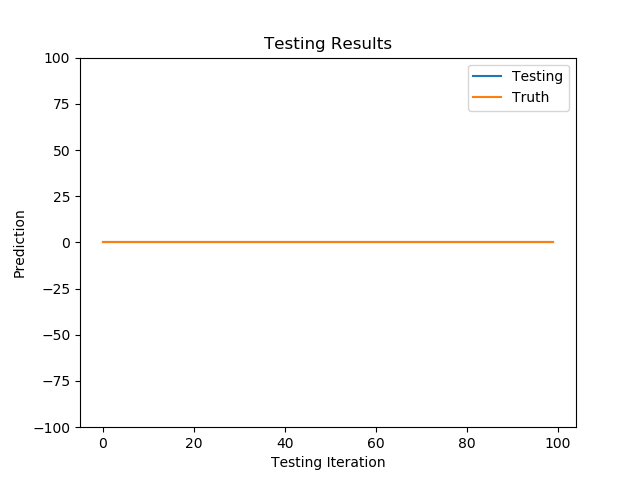
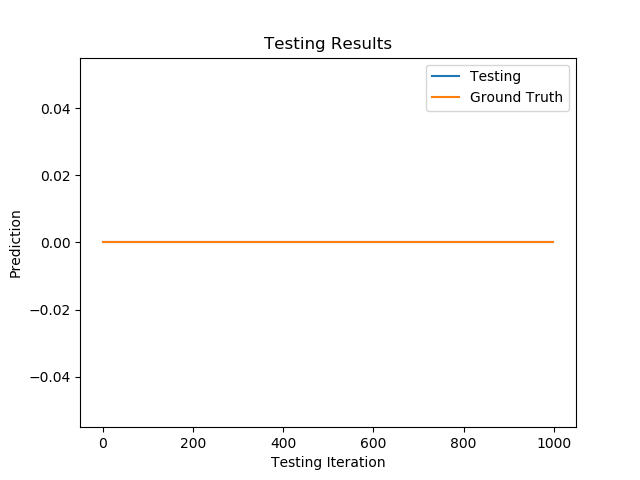
Fixes for test 1

diff --git a/seq2point_test.py b/seq2point_test.py
@@ -6,54 +6,55 @@ from model_structure import create_model, load_model
 from data_feeder import TestingChunkSlider
 import matplotlib.pyplot as plt
 
-# Split the test dataset into features and targets.
-def load_dataset(file_name, crop):
-    data_frame = pd.read_csv(file_name, nrows=crop, header=0)
-    test_input = np.round(np.array(data_frame.iloc[:, 0], float), 6)
-    test_target = np.round(np.array(data_frame.iloc[:, 1], float), 6)
-    del data_frame
-    return test_input, test_target
+def test_model():
 
-# Identify the test file.
-for file_name in os.listdir("./kettle/"):
-    if ("TEST" in file_name):
-        test_file_name = file_name
-    else:
-        print("No testing file was found.")
-        break
+    # Split the test dataset into features and targets.
+    def load_dataset(file_name, crop):
+        data_frame = pd.read_csv(file_name, nrows=crop, header=0)
+        test_input = np.round(np.array(data_frame.iloc[:, 0], float), 6)
+        test_target = np.round(np.array(data_frame.iloc[:, 1], float), 6)
+        del data_frame
+        return test_input, test_target
 
-offset = int(0.5 * 599 - 1)
+    # Identify the test file.
+    # for file_name in os.listdir("./kettle/"):
+    #     print("file name: ", file_name)
+    #     if ("test" in file_name):
+    #         test_file_name = file_name
+    #     else:
+    #         print("No testing file was found.")
+    #         break
 
-# Get the (cropped) testing dataset.
-CROP = None
-test_input, test_target = load_dataset(test_file_name, CROP)
+    test_file_name = "./kettle/kettle_test_.csv"
 
-# Initialise the model and testing generator.
-model = create_model()
-<<<<<<< HEAD
-test_generator = TestingChunkSlider(number_of_windows=100, offset=offset)
-=======
+    offset = int(0.5 * 599 - 1)
 
-test_generator = TestingChunkSlider(number_of_windows=1000, offset=offset)
->>>>>>> 7e15f265340991a6697e4964b7415c99bde496a3
+    # Get the (cropped) testing dataset.
+    CROP = None
+    DEFAULT_BATCH_SIZE = 1000
+    test_input, test_target = load_dataset(test_file_name, CROP)
 
-# Test the model.
-testing_history = model.predict_generator(test_generator.load_data(test_input), steps=1)
+    # Initialise the model and testing generator.
+    model = create_model()
+    model = load_model(model, "./kettle/saved_model/kettle_model")
+    test_generator = TestingChunkSlider(number_of_windows=100, inputs=test_input, offset=offset)
 
-# Can't have negative energy readings - set any results below 0 to 0.
-test_target[test_target < 0] = 0
-testing_history[testing_history < 0] = 0
+    # Calculate the optimum steps per epoch.
+    steps_per_test_epoch = np.round(int(test_generator.total_size / DEFAULT_BATCH_SIZE), decimals=0)
 
-# Plot testing outcomes against ground truth.
-plt.plot(testing_history, label="Testing")
-plt.plot(test_target[0 : testing_history.size], label="Ground Truth")
-plt.title('Testing Results')
-plt.ylabel('Prediction')
-plt.xlabel('Testing Iteration')
-<<<<<<< HEAD
-=======
-# plt.ylim(-100, 100)
->>>>>>> 7e15f265340991a6697e4964b7415c99bde496a3
-plt.legend()
-plt.savefig(fname="testing_results.png")
-plt.show()
+    # Test the model.
+    testing_history = model.predict_generator(test_generator.load_data(test_input), steps=steps_per_test_epoch)
+
+    # Can't have negative energy readings - set any results below 0 to 0.
+    test_target[test_target < 0] = 0
+    testing_history[testing_history < 0] = 0
+
+    # Plot testing outcomes against ground truth.
+    plt.plot(testing_history, label="Testing")
+    plt.plot(test_target[0 : testing_history.size], label="Ground Truth")
+    plt.title('Testing Results')
+    plt.ylabel('Prediction')
+    plt.xlabel('Testing Iteration')
+    plt.legend()
+    plt.savefig(fname="testing_results.png")
+    plt.show()

diff --git a/seq2point_train.py b/seq2point_train.py
@@ -9,39 +9,43 @@ import numpy as np
 import pandas as pd
 import matplotlib.pyplot as plt
 
-# Static maximum chunk size and batch size.
-SIZE_OF_CHUNK = 5 * 10 ** 2
-DEFAULT_BATCH_SIZE = 1000
+def train_model():
+    # Static maximum chunk size and batch size.
+    SIZE_OF_CHUNK = 5 * 10 ** 2
+    DEFAULT_BATCH_SIZE = 1000
 
-training_directory = "./kettle/kettle_training_.csv"
-validation_directory = "./kettle/kettle_validation_.csv"
-window_offset = int((0.5 * 599 ) - 1)
+    training_directory = "./kettle/kettle_training_.csv"
+    validation_directory = "./kettle/kettle_validation_.csv"
+    window_offset = int((0.5 * 599 ) - 1)
 
-# Generator function to produce batches.
-training_chunker = InputChunkSlider(file_name=training_directory, chunk_size=SIZE_OF_CHUNK, batch_size=DEFAULT_BATCH_SIZE, crop=None, shuffle=True, offset=window_offset, header=0, ram_threshold=5*10**5)
+    # Generator function to produce batches.
+    training_chunker = InputChunkSlider(file_name=training_directory, chunk_size=SIZE_OF_CHUNK, batch_size=DEFAULT_BATCH_SIZE, crop=None, shuffle=True, offset=window_offset, header=0, ram_threshold=5*10**5)
 
-# Calculate the optimum steps per epoch.
-training_chunker.check_if_chunking()
-steps_per_epoch = np.round(int(training_chunker.total_size / DEFAULT_BATCH_SIZE), decimals=0)
+    # Calculate the optimum steps per epoch.
+    training_chunker.check_if_chunking()
+    steps_per_training_epoch = np.round(int(training_chunker.total_size / DEFAULT_BATCH_SIZE), decimals=0)
 
-# Compile the model with an Adam optimiser. Initialise early stopping callback that stops only 
-# if there's no improvement 2 epochs later.
-model = create_model()
-model.compile(Adam(learning_rate=0.001, beta_1=0.9, beta_2=0.999), loss="mean_squared_error", metrics=["mae", "mse"]) 
-early_stopping = EarlyStopping(monitor="loss", min_delta=0, patience=2, verbose=2, mode="auto")
+    # Compile the model with an Adam optimiser. Initialise early stopping callback that stops only 
+    # if there's no improvement 2 epochs later.
+    model = create_model()
+    model.compile(Adam(learning_rate=0.001, beta_1=0.9, beta_2=0.999), loss="mean_squared_error", metrics=["mae", "mse"]) 
+    early_stopping = EarlyStopping(monitor="loss", min_delta=0.0005, patience=0, verbose=2, mode="auto")
 
-# Train the model with the generator function and early stopping callback.
-training_history = model.fit_generator(training_chunker.load_dataset(), steps_per_epoch=steps_per_epoch, epochs=10, verbose=2, callbacks=[early_stopping])
+    # Train the model with the generator function and early stopping callback.
+    training_history = model.fit_generator(training_chunker.load_dataset(),
+        steps_per_epoch=steps_per_training_epoch, 
+        epochs=10,
+        verbose=2, 
+        callbacks=[early_stopping])
 
-# Plot the monitored metrics and save.
-plt.plot(training_history.history['loss'], label="Loss")
-plt.plot(training_history.history['mae'], label="MAE")
-plt.plot(training_history.history['mse'], label="MSE")
-plt.title('Training Metrics')
-plt.ylabel('y')
-plt.xlabel('Epoch')
-plt.legend()
-plt.savefig(fname="training_results.png")
-plt.show()
+    # # Plot the monitored metrics and save.
+    # plt.plot(training_history.history['mae'], label="MAE")
+    # plt.plot(training_history.history['mse'], label="MSE (Loss)")
+    # plt.title('Training Metrics')
+    # plt.ylabel('y')
+    # plt.xlabel('Epoch')
+    # plt.legend()
+    # plt.savefig(fname="training_results.png")
+    # plt.show()
 
-save_model(model, "./kettle/kettle_model")
+    save_model(model, "./kettle/saved_model/kettle_model")

diff --git a/data_feeder.py b/data_feeder.py
@@ -9,7 +9,7 @@ class InputChunkSlider():
     def __init__(self, file_name, chunk_size, shuffle, offset, batch_size=1000, crop=100000, header=0, ram_threshold=5 * 10 ** 5):
         self.file_name = file_name
         self.batch_size = 1000
-        self.chunk_size = 10000
+        self.chunk_size = 10 ** 8
         self.shuffle = shuffle
         self.offset = offset
         self.crop = crop
@@ -19,8 +19,13 @@ class InputChunkSlider():
 
     def check_if_chunking(self):
         # Loads the file and counts the number of rows it contains.
+        print("Importing training file...")
         chunks = pd.read_csv(self.file_name, header=self.header, nrows=self.crop)
+        print("Counting number of rows...")
         self.total_size = len(chunks)
+        del chunks
+        print("Done.")
+
         print("The dataset contains ", self.total_size, " rows")
 
         # Display a warning if there are too many rows to fit in the designated amount RAM.
@@ -80,13 +85,15 @@ class InputChunkSlider():
                     yield input_data, output_data
 
 class TestingChunkSlider(object):
-    def __init__(self, number_of_windows, offset):
+    def __init__(self, number_of_windows, inputs, offset):
         self.number_of_windows = number_of_windows
         self.offset = offset
+        self.inputs = inputs
+        self.total_size = len(inputs)
 
     def load_data(self, inputs):
         inputs = inputs.flatten()
-        max_number_of_windows = inputs.size - 2 * self.offset
+        max_number_of_windows = self.inputs.size - 2 * self.offset
 
         if self.number_of_windows < 0:
             self.number_of_windows = max_number_of_windows
@@ -94,7 +101,7 @@ class TestingChunkSlider(object):
         indicies = np.arange(max_number_of_windows, dtype=int)
         for start_index in range(0, max_number_of_windows, self.number_of_windows):
             splice = indicies[start_index : start_index + self.number_of_windows]
-            input_data = np.array([inputs[index : index + 2 * self.offset + 1] for index in splice])
+            input_data = np.array([self.inputs[index : index + 2 * self.offset + 1] for index in splice])
             yield input_data
 
 

diff --git a/model_structure.py b/model_structure.py
@@ -27,8 +27,9 @@ def save_model(model, path):
 
 def load_model(model, path):
     try:
+        print("PATH: ", path)
         model.load_weights(path + "_weights.h5")
-        return
+        return model
     except:
         print("No saved model was found. (Takes the form of appliancename_weights.h5)")
-        return
+        return None

diff --git a/menu.py b/menu.py
@@ -69,3 +69,9 @@ def save_directory():
         else:
             print()
             return directory
+
+from seq2point_train import train_model
+from seq2point_test import test_model
+
+train_model()
+test_model()
